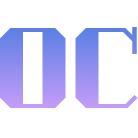
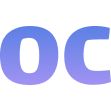
deploy: oscto1/oscto1.github.io@4107913a2d49b88e517947182521a70be1f96a2a

diff --git a/assets/index-C2_FVajV.css b/assets/index-C2_FVajV.css
@@ -1,0 +1,1 @@
+@font-face{font-family:Lexend;src:url(/portfolio-dev/fonts/Lexend/Lexend-Variable.ttf)format("truetype")}html{background-image:linear-gradient(#2c73d2 3.4%,#c49cf8 127.9%)}body{min-height:3000px;margin:0;font-family:Lexend,sans-serif;overflow-x:hidden}html,body{height:100%;margin:0;overflow:hidden}h1{font-size:clamp(2rem,8vw,5rem);font-weight:700}h2{font-size:clamp(1.5rem,5vw,5rem);font-weight:bolder}div,button{font-size:clamp(1rem,2.5vw,1.25rem)}p{max-width:60ch;font-size:clamp(1rem,2.5vw,1.25rem);line-height:1.6}a{color:#fff;text-decoration:none}.header-sections{justify-content:center;align-items:center;width:300px;font-weight:200;display:flex}.header-sections>.active{color:#fff;font-weight:900}.navbar{-webkit-backdrop-filter:blur(10px);z-index:10;background-color:#387ce0b3;border-bottom:1px solid #ffffff4d;justify-content:space-between;align-items:center;padding:15px;display:flex;position:sticky;top:0;backdrop-filter:blur(10px)!important}.media_button:hover{transform:scale(1.1)}.logo{align-items:center;display:flex}.logo img{height:25px}#bg{z-index:-1;width:100%;height:100%;position:fixed;top:0;left:0;-webkit-filter:none!important}#hero{flex-direction:column;justify-content:flex-end;align-items:center;display:flex}.inner.hero{text-align:center}#degree{color:#fff;background:#fff0;border-radius:15px;margin:0;padding:5px;font-size:18px}#controls_div{opacity:1;pointer-events:auto;justify-content:space-between;min-width:300px;margin-top:20px;padding:20px;transition:opacity .25s;display:flex}#controls_div.hidden{opacity:0;pointer-events:none}.ctrl_hint{justify-content:space-between;align-items:center;gap:10px;display:flex}main{z-index:1;color:#fff;position:relative}section{width:min(1900px,100%);max-width:100vw;min-height:400px;margin:0 auto;padding:30px 0;scroll-margin-top:80px;position:relative}.inner{padding-left:1rem;padding-right:1rem}.control-btn{cursor:pointer;border:none;border-radius:50%;justify-content:center;align-items:center;width:60px;height:60px;padding:10px;display:flex}.control-btn svg{fill:#fff;width:100%;height:100%}.card-grid{grid-template-columns:repeat(1,1fr);gap:1.5rem;display:grid}.card{border-radius:12px;flex-direction:column;height:100%;transition:transform .2s,box-shadow .2s;display:flex;overflow:hidden;box-shadow:0 4px 12px #00000014}.card img{aspect-ratio:16/9;object-fit:cover;width:100%;height:auto}.video-wrapper{aspect-ratio:16/9;width:100%;position:relative;overflow:hidden}.video-wrapper video{object-fit:cover;width:100%;height:100%;display:block}.video-wrapper svg{pointer-events:none;-webkit-backdrop-filter:blur(10px);background:#b4b4b433;border:1px solid #ffffff40;border-radius:15px;width:40px;height:40px;padding:20px;position:absolute;top:50%;left:50%;transform:translate(-50%,-50%);backdrop-filter:blur(10px)!important}.card h3{margin:1rem}.card:hover{transform:translateY(-5px);box-shadow:0 8px 20px #0000001f}.card-header{align-items:center;gap:10px;display:flex}.card-tech-elem{background:#0000004d;border-radius:15px;padding:6px;font-size:small}.card-category{color:#dcdcdc;margin-bottom:5px;font-size:small}.card-content{-webkit-backdrop-filter:blur(10px);background:#b4b4b440;flex-direction:column;flex-grow:1;display:flex;backdrop-filter:blur(5px)!important}.card-content a{background:#0000004d;border-radius:10px;align-self:flex-start;margin-top:auto;padding:13px;box-shadow:0 8px 20px #0000001f}.card-content a:hover{background:#00000080}.aboutme-container{max-width:60ch;padding:20px}.aboutme-container p{margin:0}.contact-icons{width:30px}.social-container{align-items:center;gap:8px;margin-top:15px;display:flex}form{background:#ffffff4d;border:2px solid #fff;border-radius:11px;flex-direction:column;gap:1.2rem;max-width:100%;margin:1rem 0;padding:2rem;font-family:Lexend;display:flex;box-shadow:0 10px 25px #0000001a}::placeholder{color:#ffffffb3}input[type=text],input[type=email],textarea{box-sizing:border-box;color:#fff;background:0 0;border:2px solid #ffffffb3;border-radius:8px;outline:none;width:100%;padding:12px 16px;font-family:Lexend;font-size:1rem;transition:all .3s}input:focus,textarea:focus{background:#fff3;border-color:#fff;box-shadow:0 0 8px #4a90e233}textarea{resize:vertical;min-height:150px}button[type=submit]{color:#fff;cursor:pointer;background-color:#0000004d;border:none;border-radius:8px;padding:14px;font-family:Lexend;font-size:1rem;font-weight:600;transition:background .3s,transform .1s}button[type=submit]:hover{background-color:#0006}button[type=submit]:active{transform:scale(.98)}input[name=_gotcha]{display:none!important}.glass-element{-webkit-backdrop-filter:blur(10px);background:#ffffff26;border:2px solid #fff3;border-radius:16px;box-shadow:0 4px 30px #0000001a;backdrop-filter:blur(10px)!important}main{height:100vh;position:fixed;top:0;bottom:0;left:0;right:0;overflow:hidden auto}#joystick-zone{z-index:1000;pointer-events:auto;touch-action:none;overscroll-behavior:contain;opacity:1;pointer-events:auto;border-radius:16px 16px 0 0;width:100%;height:140px;transition:opacity .25s;position:fixed;bottom:0}#joystick-zone.hidden{opacity:0;pointer-events:none}#onJoystickToggle{z-index:1000;width:2.5em;height:2.5em;position:fixed;bottom:10px;right:10px;transform:rotate(180deg)}#ctrl-zone{width:100%;height:100%;position:relative}.stick-zone{width:50%;height:100%;position:relative}.footer-minimal{color:var(--footer-text-color);-webkit-backdrop-filter:blur(10px);background-color:#ffffe126;border-top:1px solid #e7e7e7;font-size:.875rem;backdrop-filter:blur(10px)!important}.footer-minimal__container{flex-direction:column;align-items:center;gap:.75rem;max-width:1140px;margin:0 auto;padding:1rem 1.5rem;display:flex}.footer-minimal__copyright{text-align:center;margin:0}.footer-minimal__nav ul{gap:1.5rem;margin:0;padding:0;list-style:none;display:flex}.footer-minimal__nav button.activelang{border:2px solid #fff}.footer-minimal__nav button{cursor:pointer;background-color:#0000;border:0;border-radius:50%;width:40px;height:40px;font-family:Lexend;transition:background-color .2s ease-in-out}.footer-minimal__nav button:hover{color:var(--footer-link-hover-color);border:1px solid #fff}@media (min-width:768px){.inner{padding-left:2rem;padding-right:2rem}.header-sections{justify-content:space-between}.navbar{padding:25px}}@media (min-width:1024px){.inner{padding-left:5rem;padding-right:5rem}.card-grid{grid-template-columns:repeat(3,1fr)}}@media (min-width:1920px){section{width:min(1900px,100%)}}#dev-banner{z-index:9999;color:#fff;backdrop-filter:blur(6px);background:#ff0000d9;border-radius:6px;padding:6px 10px;font-family:sans-serif;font-size:12px;position:fixed;top:70px;left:10px}

diff --git a/assets/index-CCd7CbaQ.js b/assets/index-CCd7CbaQ.js
@@ -4069,4 +4069,4 @@ void main() {
                                     <img src="img/ik.png" alt="ik"  height="50">
                                     <p data-i18n="controls_hint.3"></p>
                                 </div>
-                                `;var _m=document.querySelector(`#enbtn`),vm=document.querySelector(`#esbtn`);function ym(){xp()===`es`?(vm.classList.add(`activelang`),_m.classList.remove(`activelang`)):(vm.classList.remove(`activelang`),_m.classList.add(`activelang`))}vp(xp()),_m.addEventListener(`click`,()=>{vp(`en`),ym()}),vm.addEventListener(`click`,()=>{vp(`es`),ym()});var bm=document.querySelector(`main`),xm=bm.scrollHeight-bm.clientHeight;(Ef.height-28-28)*1.15,Df(If(xm)),console.log(Ef.height+` `+Ef.width),console.log(window.devicePixelRatio);var Sm=new Bs;Sm.connect(document),Sm.reset();var Cm=new _d({canvas:document.querySelector(`#bg`),antialias:!0});Cm.setClearColor(0,0),console.log(window.innerWidth),console.log(window.innerHeight),Cm.setSize(window.innerWidth,window.innerHeight),Cm.shadowMap.enabled=!0,Cm.setPixelRatio(2),window.addEventListener(`resize`,wm);function wm(){Tf(window.innerWidth,window.innerHeight);let e=Cf/wf;Mf.left=-Af*e/2,Mf.right=Af*e/2,Mf.top=Af/2,Mf.bottom=-Af/2,Mf.updateProjectionMatrix(),Cm.setSize(Cf,wf);let t=document.getElementById(`hero`);t.style.height=`${zf(35)}px`,Df(If(bm.scrollHeight-bm.clientHeight))}var Tm={w:!1,a:!1,s:!1,d:!1,i:!1,k:!1},Em=!1;window.addEventListener(`keydown`,e=>{Mm(e)||e.key in Tm&&(Tm[e.key]=!0,Dm(!0))}),window.addEventListener(`keyup`,e=>{Mm(e)||e.key in Tm&&(Tm[e.key]=!1)}),window.addEventListener(`wheel`,()=>{Dm(!1)}),pm!==void 0&&pm.on(`start`,()=>{console.log(`started`),Dm(!0)}),window.addEventListener(`blur`,()=>{Om(),Dm(!1)}),window.addEventListener(`contextmenu`,()=>{Om(),Dm(!1)}),window.addEventListener(`mouseup`,()=>{Om()}),document.addEventListener(`visibilitychange`,()=>{document.hidden&&(Om(),Dm(!1))}),bm.scrollTop,bm.addEventListener(`touchmove`,()=>{Dm(!1)},{passive:!1}),bm.addEventListener(`scroll`,()=>{Em||bm.scrollTop});function Dm(e){Em=e,Em?(bm.style.overflow=`hidden`,document.body.style.overflow=`hidden`):(bm.style.overflow=``,document.body.style.overflow=``)}function Om(){Object.keys(Tm).forEach(e=>Tm[e]=!1)}var km=document.getElementById(`hero`);km.style.height=`${zf(35)}px`;var Am=new vd;document.body.appendChild(Am.dom),document.querySelector(`#controls_div`);var jm=document.getElementById(`contact-form`);jm.addEventListener(`submit`,async e=>{e.preventDefault();let t=new FormData(jm);await fetch(jm.action,{method:`POST`,body:t,headers:{Accept:`application/json`}}),jm.style.display=`none`,document.getElementById(`success-message`).style.display=`block`});function Mm(e){let t=e.target.tagName;return t===`INPUT`||t===`TEXTAREA`}var Nm=Mf.position.z,Pm=25,Fm=28+Pm,Im=Ef.height-28+Pm,Lm=function(){Am.update(),requestAnimationFrame(Lm),Sm.update(),cp(Tm,fm,Sm.getDelta());let e=bm.scrollHeight-bm.clientHeight,t=Im-Fm;if(Em){let n=Qf.position.z+Pm,r=Et.clamp(n,Fm,Im);Mf.position.z+=(r-Mf.position.z)*.2;let i=Et.clamp((Qf.position.z+Pm-Fm)/t,0,1)*e;bm.scrollTo({top:i,behavior:`auto`})}else{let t=e>0?bm.scrollTop/e:0;Nm=Et.lerp(Fm,Im,t),Mf.position.z=Nm}Ff.position.set(-15,40,Mf.position.z-40),Ff.target.position.set(0,0,Mf.position.z-40),Cm.render(Sf,Mf)};Lm();
+                                `;var _m=document.querySelector(`#enbtn`),vm=document.querySelector(`#esbtn`);function ym(){xp()===`es`?(vm.classList.add(`activelang`),_m.classList.remove(`activelang`)):(vm.classList.remove(`activelang`),_m.classList.add(`activelang`))}vp(xp()),_m.addEventListener(`click`,()=>{vp(`en`),ym()}),vm.addEventListener(`click`,()=>{vp(`es`),ym()});var bm=document.querySelector(`main`),xm=bm.scrollHeight-bm.clientHeight;(Ef.height-28-28)*1.15,Df(If(xm)),console.log(Ef.height+` `+Ef.width),console.log(window.devicePixelRatio);var Sm=new Bs;Sm.connect(document),Sm.reset();var Cm=new _d({canvas:document.querySelector(`#bg`),antialias:!0});Cm.setClearColor(0,0),console.log(window.innerWidth),console.log(window.innerHeight),Cm.setSize(window.innerWidth,window.innerHeight),Cm.shadowMap.enabled=!0,Cm.setPixelRatio(2),window.addEventListener(`resize`,wm);function wm(){Tf(window.innerWidth,window.innerHeight);let e=Cf/wf;Mf.left=-Af*e/2,Mf.right=Af*e/2,Mf.top=Af/2,Mf.bottom=-Af/2,Mf.updateProjectionMatrix(),Cm.setSize(Cf,wf);let t=document.getElementById(`hero`);t.style.height=`${zf(35)}px`,Df(If(bm.scrollHeight-bm.clientHeight))}var Tm={w:!1,a:!1,s:!1,d:!1,i:!1,k:!1},Em=!1;window.addEventListener(`keydown`,e=>{Mm(e)||e.key in Tm&&(Tm[e.key]=!0,Dm(!0))}),window.addEventListener(`keyup`,e=>{Mm(e)||e.key in Tm&&(Tm[e.key]=!1)}),window.addEventListener(`wheel`,()=>{Dm(!1)}),pm!==void 0&&pm.on(`start`,()=>{console.log(`started`),Dm(!0)}),window.addEventListener(`blur`,()=>{Om(),Dm(!1)}),window.addEventListener(`contextmenu`,()=>{Om(),Dm(!1)}),window.addEventListener(`mouseup`,()=>{Om()}),document.addEventListener(`visibilitychange`,()=>{document.hidden&&(Om(),Dm(!1))}),bm.scrollTop,bm.addEventListener(`touchmove`,()=>{Dm(!1)},{passive:!1}),bm.addEventListener(`scroll`,()=>{Em||bm.scrollTop});function Dm(e){Em=e,Em?(bm.style.overflow=`hidden`,document.body.style.overflow=`hidden`):(bm.style.overflow=``,document.body.style.overflow=``)}function Om(){Object.keys(Tm).forEach(e=>Tm[e]=!1)}var km=document.getElementById(`hero`);km.style.height=`${zf(35)}px`;var Am=new vd;document.body.appendChild(Am.dom),document.querySelector(`#controls_div`);var jm=document.getElementById(`contact-form`);jm.addEventListener(`submit`,async e=>{e.preventDefault();let t=new FormData(jm);await fetch(jm.action,{method:`POST`,body:t,headers:{Accept:`application/json`}}),jm.style.display=`none`,document.getElementById(`success-message`).style.display=`block`});function Mm(e){let t=e.target.tagName;return t===`INPUT`||t===`TEXTAREA`}var Nm=Mf.position.z,Pm=25,Fm=28+Pm,Im=Ef.height-28+Pm,Lm=function(){requestAnimationFrame(Lm),Sm.update(),cp(Tm,fm,Sm.getDelta());let e=bm.scrollHeight-bm.clientHeight,t=Im-Fm;if(Em){let n=Qf.position.z+Pm,r=Et.clamp(n,Fm,Im);Mf.position.z+=(r-Mf.position.z)*.2;let i=Et.clamp((Qf.position.z+Pm-Fm)/t,0,1)*e;bm.scrollTo({top:i,behavior:`auto`})}else{let t=e>0?bm.scrollTop/e:0;Nm=Et.lerp(Fm,Im,t),Mf.position.z=Nm}Ff.position.set(-15,40,Mf.position.z-40),Ff.target.position.set(0,0,Mf.position.z-40),Cm.render(Sf,Mf),Am.update()};Lm();

diff --git a/index.html b/index.html
@@ -6,8 +6,8 @@
     <link rel="icon" type="image/png" href="img/OC_color.png">
     <meta name="viewport" content="width=device-width, initial-scale=1.0, maximum-scale=1.0, user-scalable=no">
     <meta name="darkreader-lock">
-    <script type="module" crossorigin src="/portfolio-dev/assets/index-D_0wuJx7.js"></script>
-    <link rel="stylesheet" crossorigin href="/portfolio-dev/assets/index-B-ae1OLJ.css">
+    <script type="module" crossorigin src="/portfolio-dev/assets/index-CCd7CbaQ.js"></script>
+    <link rel="stylesheet" crossorigin href="/portfolio-dev/assets/index-C2_FVajV.css">
   </head>
   <body>
     <canvas id="bg"></canvas>
@@ -15,9 +15,8 @@
       <div id="dev-banner">THIS VERSION OF THE PORTFOLIO IS IN DEVELOPMENT</div>  <!-- DEV -->
       <div class="navbar">
         <a href="#hero" class="logo"><img src="img/OC.png" alt=""></a>
-        <div class="header-sections">
-        </div>
-        <a href="#contact" class="logo"><img src="img/icons/mail.svg" alt=""></a>
+        <div class="header-sections"></div>
+        <a href="#contact" class="logo media_button"><img src="img/icons/at.svg" alt=""></a>
       </div>
       <section id="hero">
         <h3 style="text-shadow: 1.5px 1.5px 2.5px pink;" data-i18n="degree" id="degree">Software Engineer</h3>
@@ -83,13 +82,13 @@
               <button data-i18n="contact.send_button" type="submit">Send Message</button>
               
             </form>
-            <p data-i18n="contact.success_message" id="success-message" style="display:none;">Thanks! Your message was sent.</p>
+            <p data-i18n="contact.success_message" id="success-message" style="margin-bottom: 20px; display:none;">Thanks! Your message was sent.</p>
             <p data-i18n="contact.alternative"></p>
             <div class="social-container">
               <!-- <a href="#contact"><img class="contact-icons" src="img/icons/mail.svg" alt="email"></a> -->
-              <a href="https://www.linkedin.com/in/oscar-castilllejo/" target="_blank"><img class="contact-icons" src="img/icons/linkedin.svg" alt="linkedin"></a>
-              <a href="https://github.com/oscto1" target="_blank"><img class="contact-icons" src="img/icons/github.svg" alt="github"></a>
-              <a href="https://www.instagram.com/olliqadev/" target="_blank"><img class="contact-icons" src="img/icons/instagram.svg" alt="instagram"></a>
+              <a href="https://www.linkedin.com/in/oscar-castilllejo/" class="media_button" target="_blank"><img class="contact-icons" src="img/icons/linkedin.svg" alt="linkedin"></a>
+              <a href="https://github.com/oscto1" class="media_button" target="_blank"><img class="contact-icons" src="img/icons/github.svg" alt="github"></a>
+              <a href="https://www.instagram.com/olliqadev/" class="media_button" target="_blank"><img class="contact-icons" src="img/icons/instagram.svg" alt="instagram"></a>
             </div>
             <a href="mailto:oscarcastillejo2@gmail.com" target="_blank">oscarcastillejo2@gmail.com</a>
             
